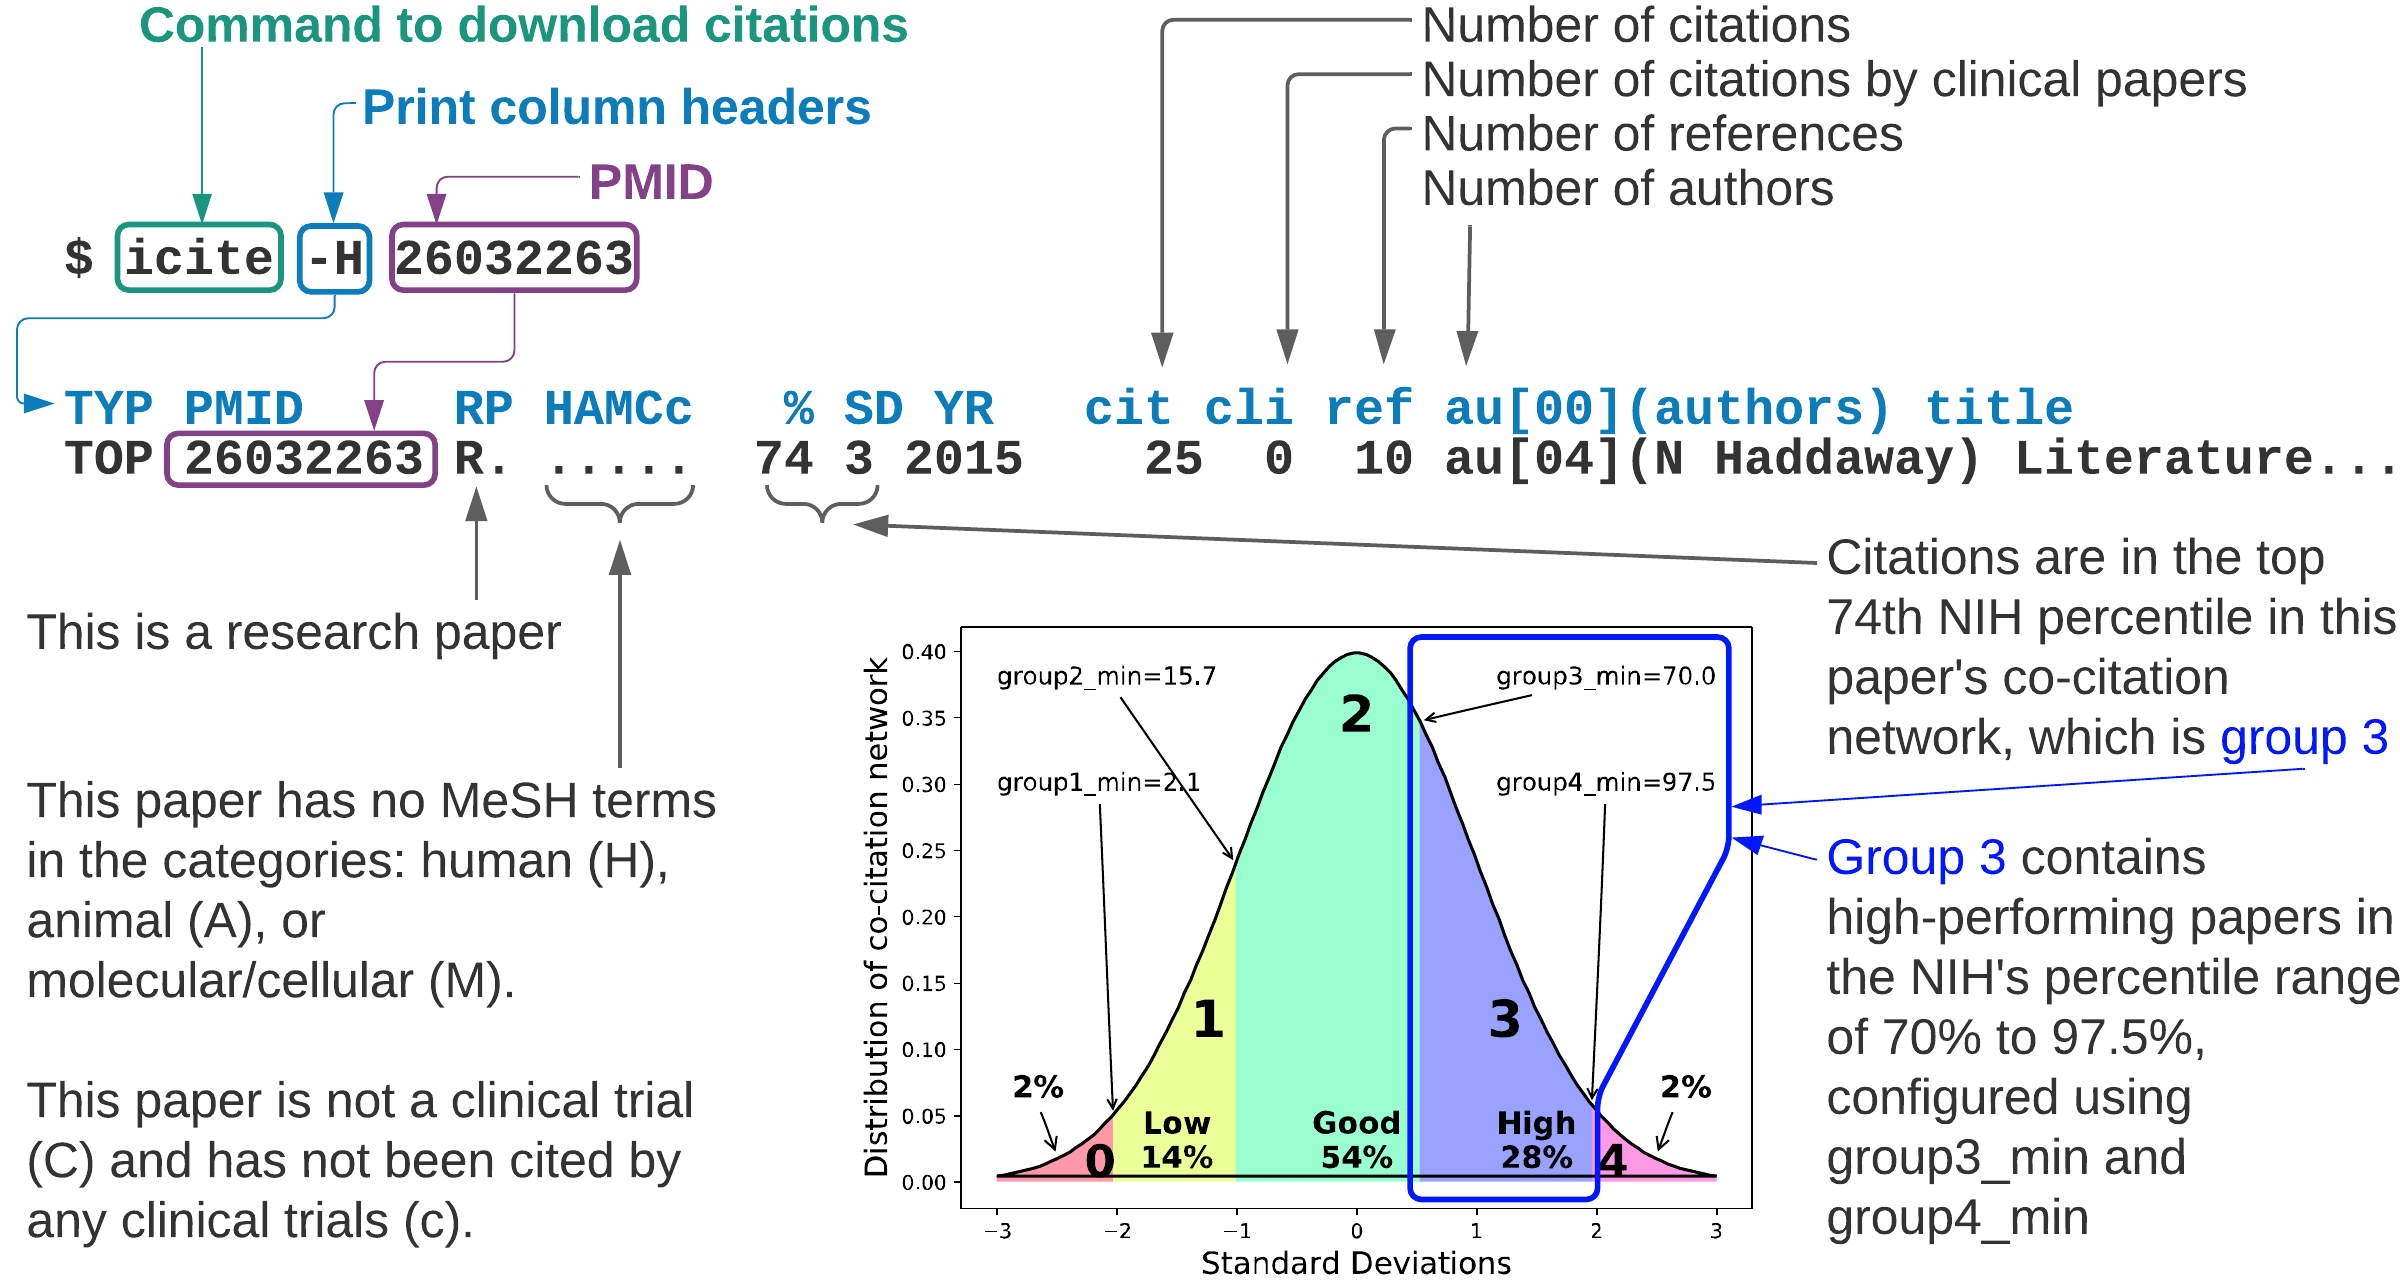
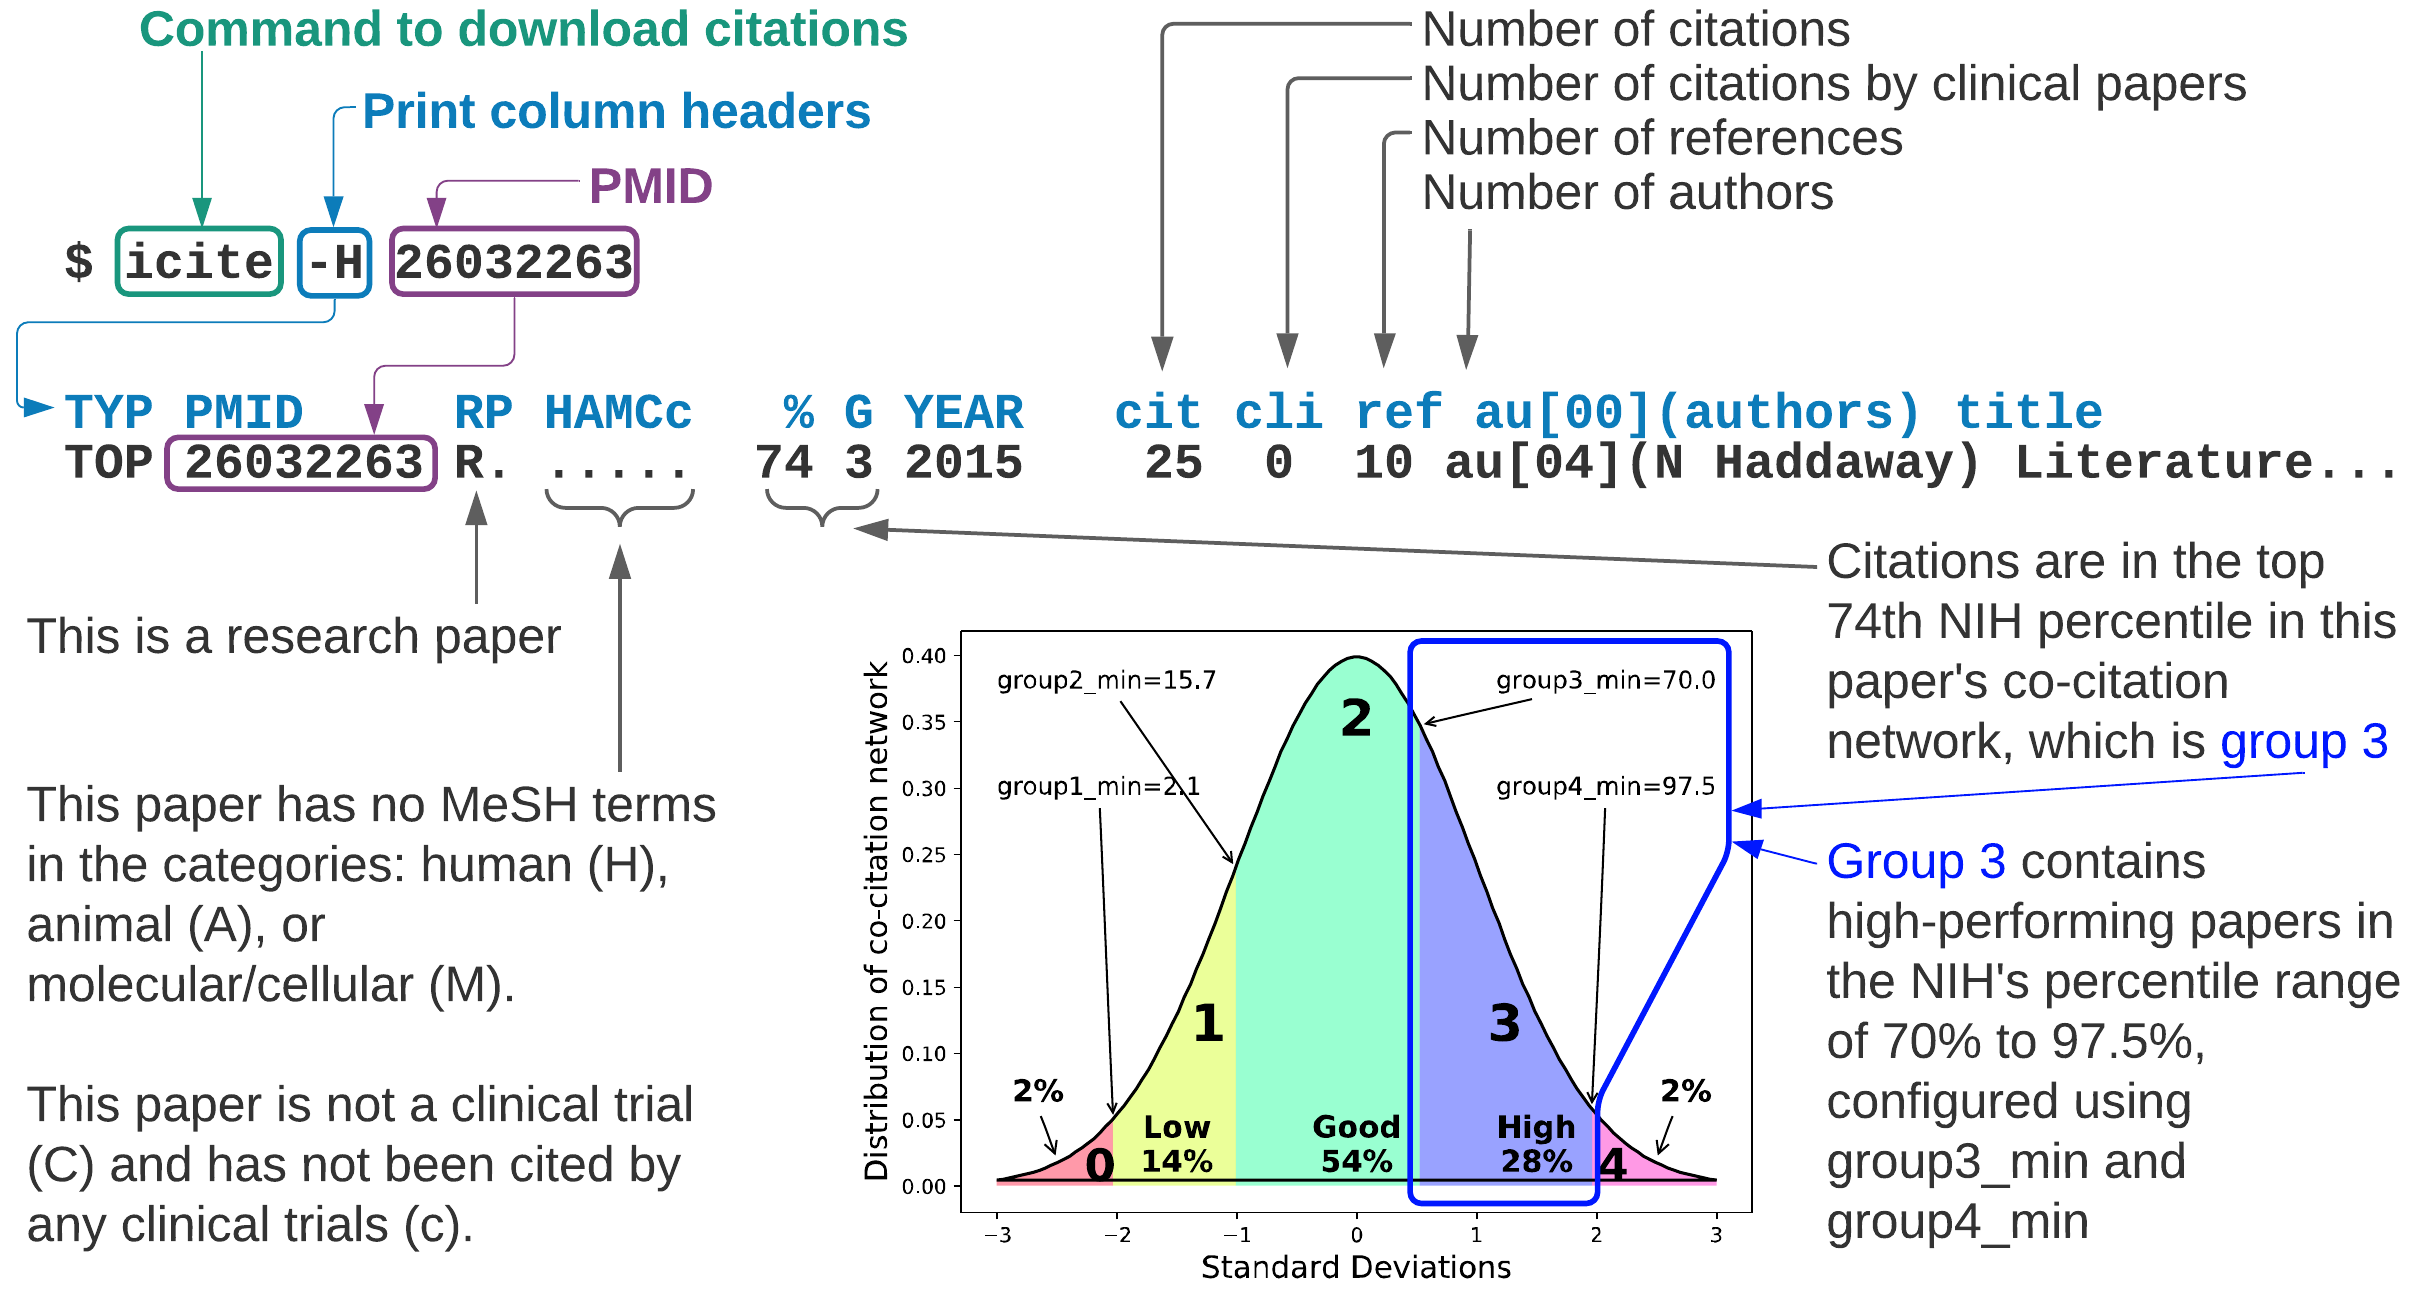
Change NIH percentile group abbrev to G from SD for accuracy

diff --git a/src/pmidcite/icite/entry.py b/src/pmidcite/icite/entry.py
@@ -28,10 +28,10 @@ class NIHiCiteEntry:
 
     hdr = pat_str.format(
         pmid='PMID',
-        year='YR',
+        year='YEAR',
         aart_type='RP',
         aart_animal='HAMCc',
-        nih_sd='SD',
+        nih_sd='G',
         nih_perc='  %',
         num_cites_all='  cit',
         clin='cli',
@@ -89,7 +89,7 @@ class NIHiCiteEntry:
     @staticmethod
     def line_fmt():
         """Return the format of the paper line"""
-        return 'PubMedID RP HAMCc % SD YEAR x y z au[A](First Author) Title of paper'
+        return 'PubMedID RP HAMCc % G YEAR x y z au[A](First Author) Title of paper'
 
     @staticmethod
     def prt_key_desc(prt=stdout):
@@ -113,7 +113,7 @@ class NIHiCiteEntry:
         prt.write('     NIH section, based on Relative Citation Ratio (RCR):\n')
         prt.write('     ----------------------------------\n')
         prt.write('         %: NIH citation percentile rounded to an integer. -1 means "not determined" or TBD\n')
-        prt.write('        SD: NIH citation percentile group: 0=-3SD 1=-2SD 2=+/-1SD 3=+2SD 4=+3SD or i=TBD\n\n')
+        prt.write('         G: NIH citation percentile group: 0=-3SD 1=-2SD 2=+/-1SD 3=+2SD 4=+3SD or i=TBD\n\n')
         prt.write('     YEAR/citations/references section:\n')
         prt.write('     ----------------------------------\n')
         prt.write('      YEAR: The year the article was published\n')

diff --git a/README.md b/README.md
@@ -14,7 +14,7 @@ rather than clicking and clicking and clicking on
 ![Starting usage](doc/images/pmidcite0.png)
 The NIH percentile NIH's ranking of a paper among its co-citation group.
 
-The NIH percentile grouping is part of this project and helps to place lower performing papers in groups 0 or 1 at the back of a sorted list so the better performing papers in groups 2, 3, and 4 are easier to see. 
+The NIH percentile (`%`) grouping is part of this project and helps to place lower performing papers in groups 0 or 1 at the back of a sorted list so the better performing papers in groups 2, 3, and 4 are easier to see. 
 
 New papers appear at the beginning of a sorted list, no matter how many citations they have to better find the latest discoveries.
 
@@ -108,7 +108,7 @@ downloading Cygwin from https://www.cygwin.com/ [[1]](#how-to-cite).
 Quickly get the number of citations for a research paper with PMID, 26032263:
 ```
 $ icite 26032263 -H
-TYP PMID     RP HAMCc   % SD YR   cit cli ref au[00](authors) title
+TYP PMID     RP HAMCc   % G YEAR   cit cli ref au[00](authors) title
 TOP 26032263 R. .....  68 2 2015    16  0  10 au[04](N R Haddaway) Making literature reviews more reliable through application of lessons from systematic reviews.
 ```
 * The first line (`TYP PMID ...`) contains the column headers (`-H`).    
@@ -123,7 +123,7 @@ specifically it is in the `68th` percentile (`%` column) compared to its peers.
 $ icite -k
 
 KEYS TO PAPER LINE:
-    TYP PubMedID RP HAMCc % SD YEAR x y z au[A](First Author) Title of paper
+    TYP PubMedID RP HAMCc % G YEAR x y z au[A](First Author) Title of paper
 
 TYPe of relationship to the researcher-requested paper (TYP):
     TOP: The paper requested by the researcher
@@ -151,7 +151,7 @@ NIH iCite details:
      NIH section, based on Relative Citation Ratio (RCR):
      ----------------------------------
          %: NIH citation percentile rounded to an integer. -1 means "not determined" or TBD
-        SD: NIH citation percentile group: 0=-3SD 1=-2SD 2=+/-1SD 3=+2SD 4=+3SD or i=TBD
+         G: NIH citation percentile group: 0=-3SD 1=-2SD 2=+/-1SD 3=+2SD 4=+3SD or i=TBD
 
      YEAR/citations/references section:
      ----------------------------------
